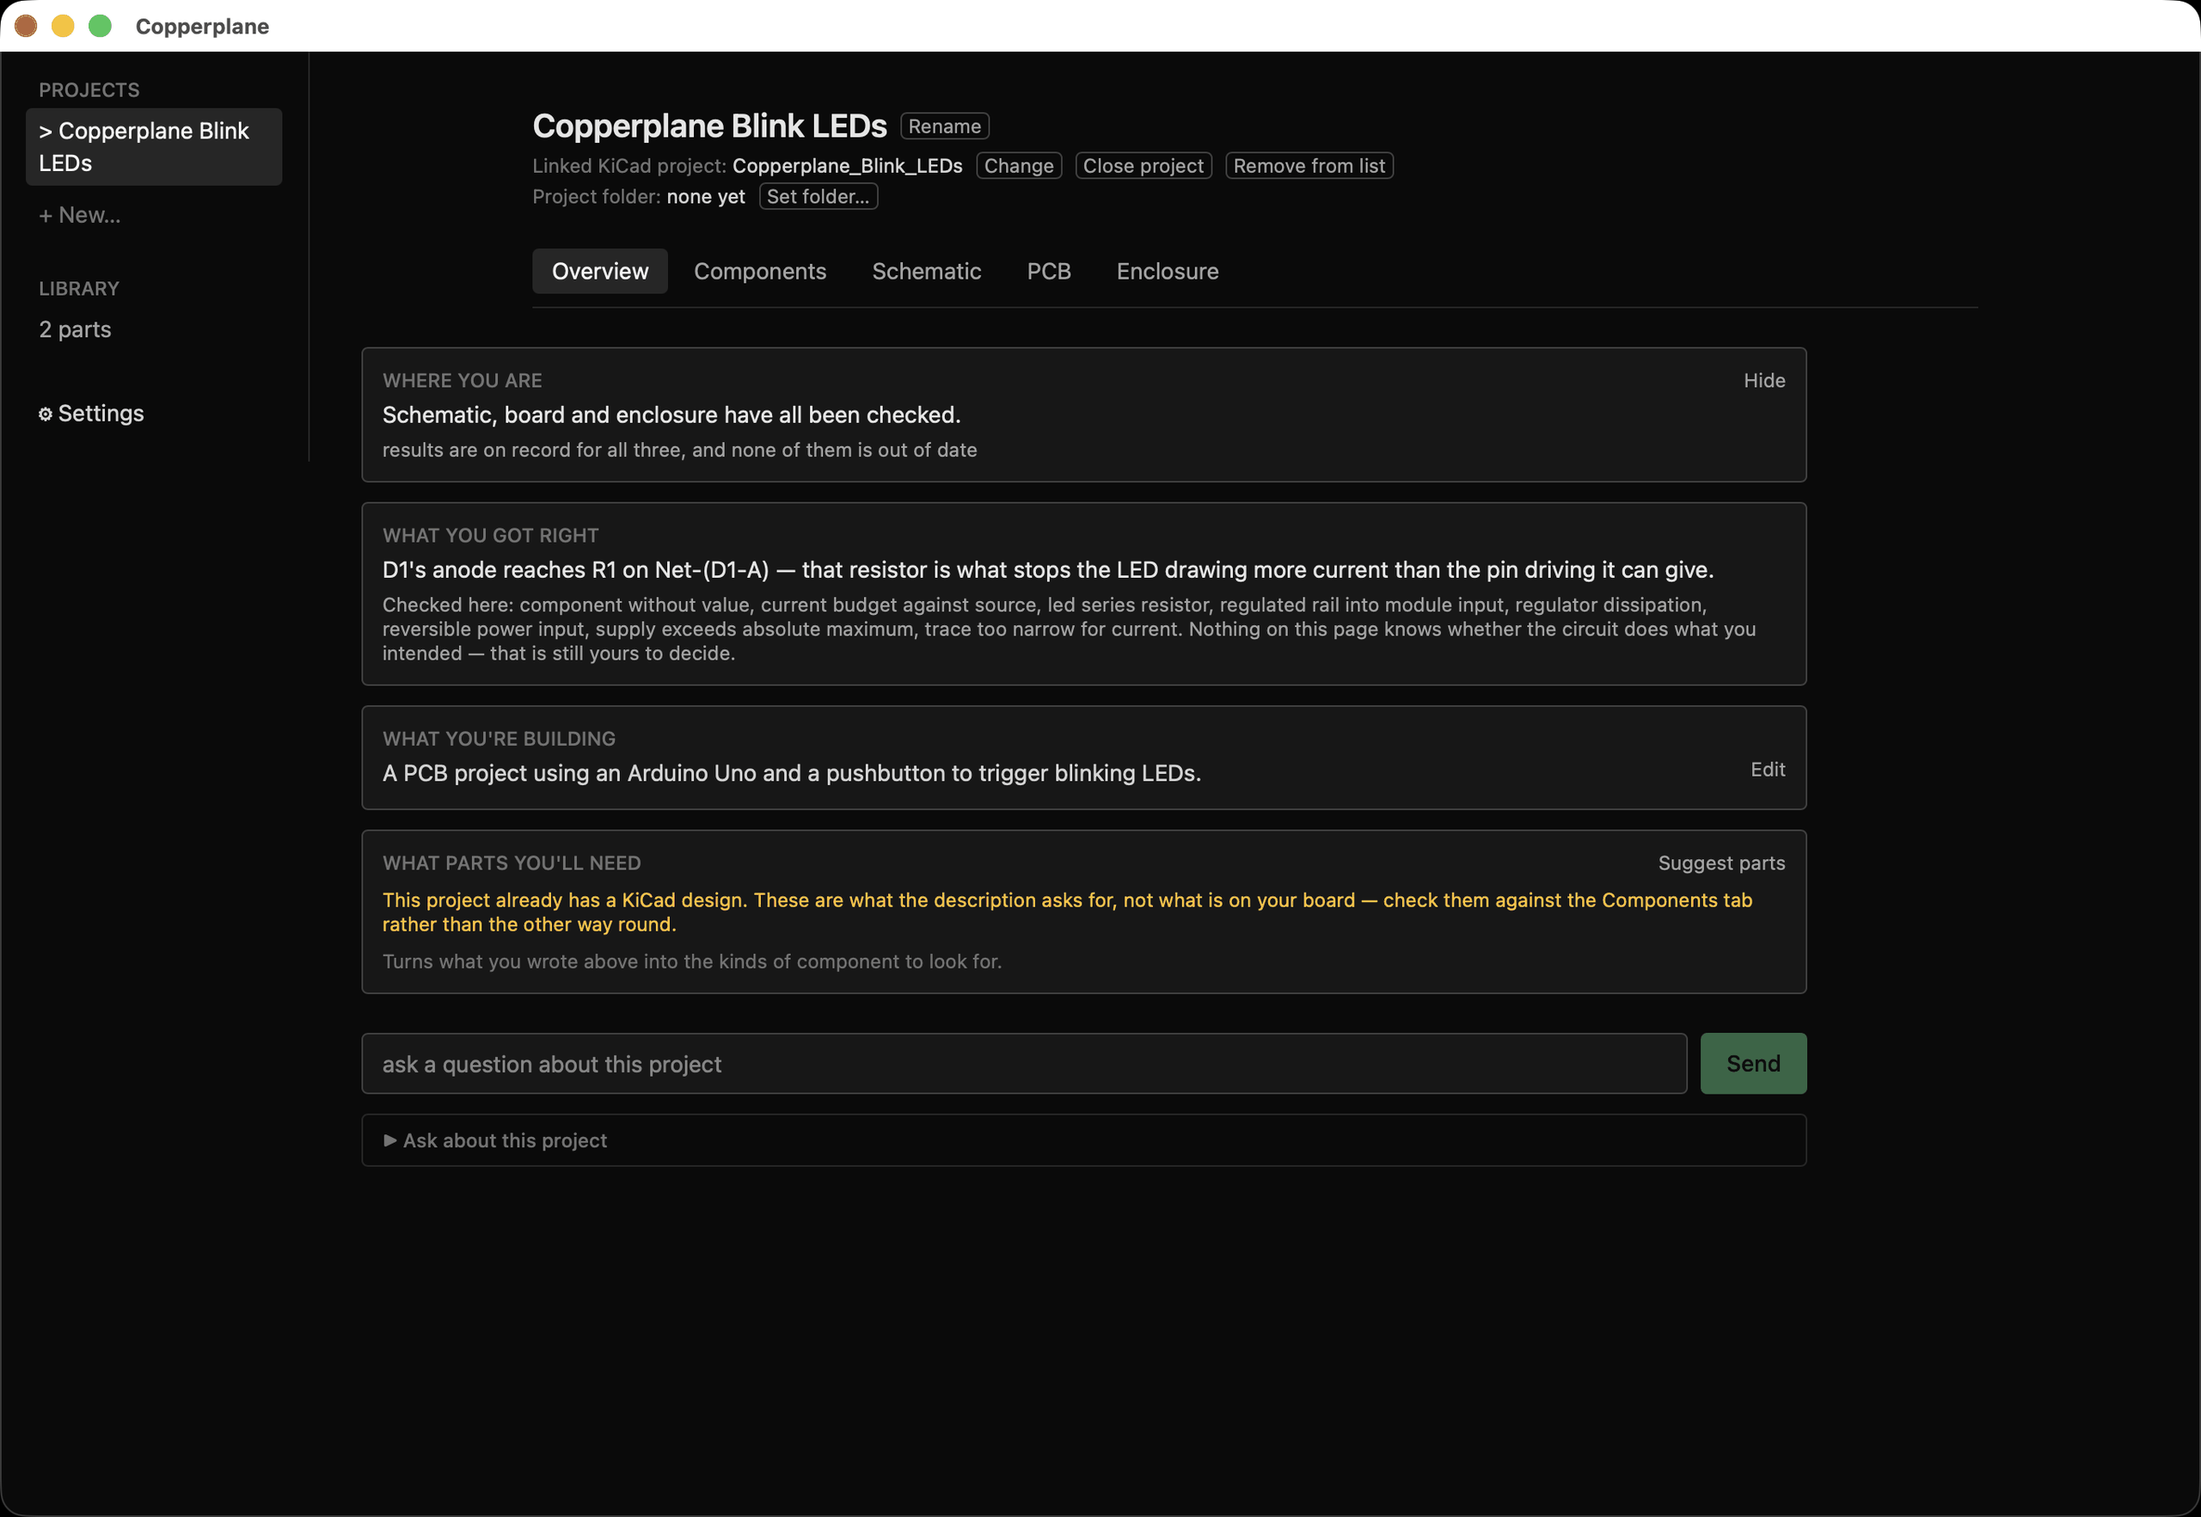
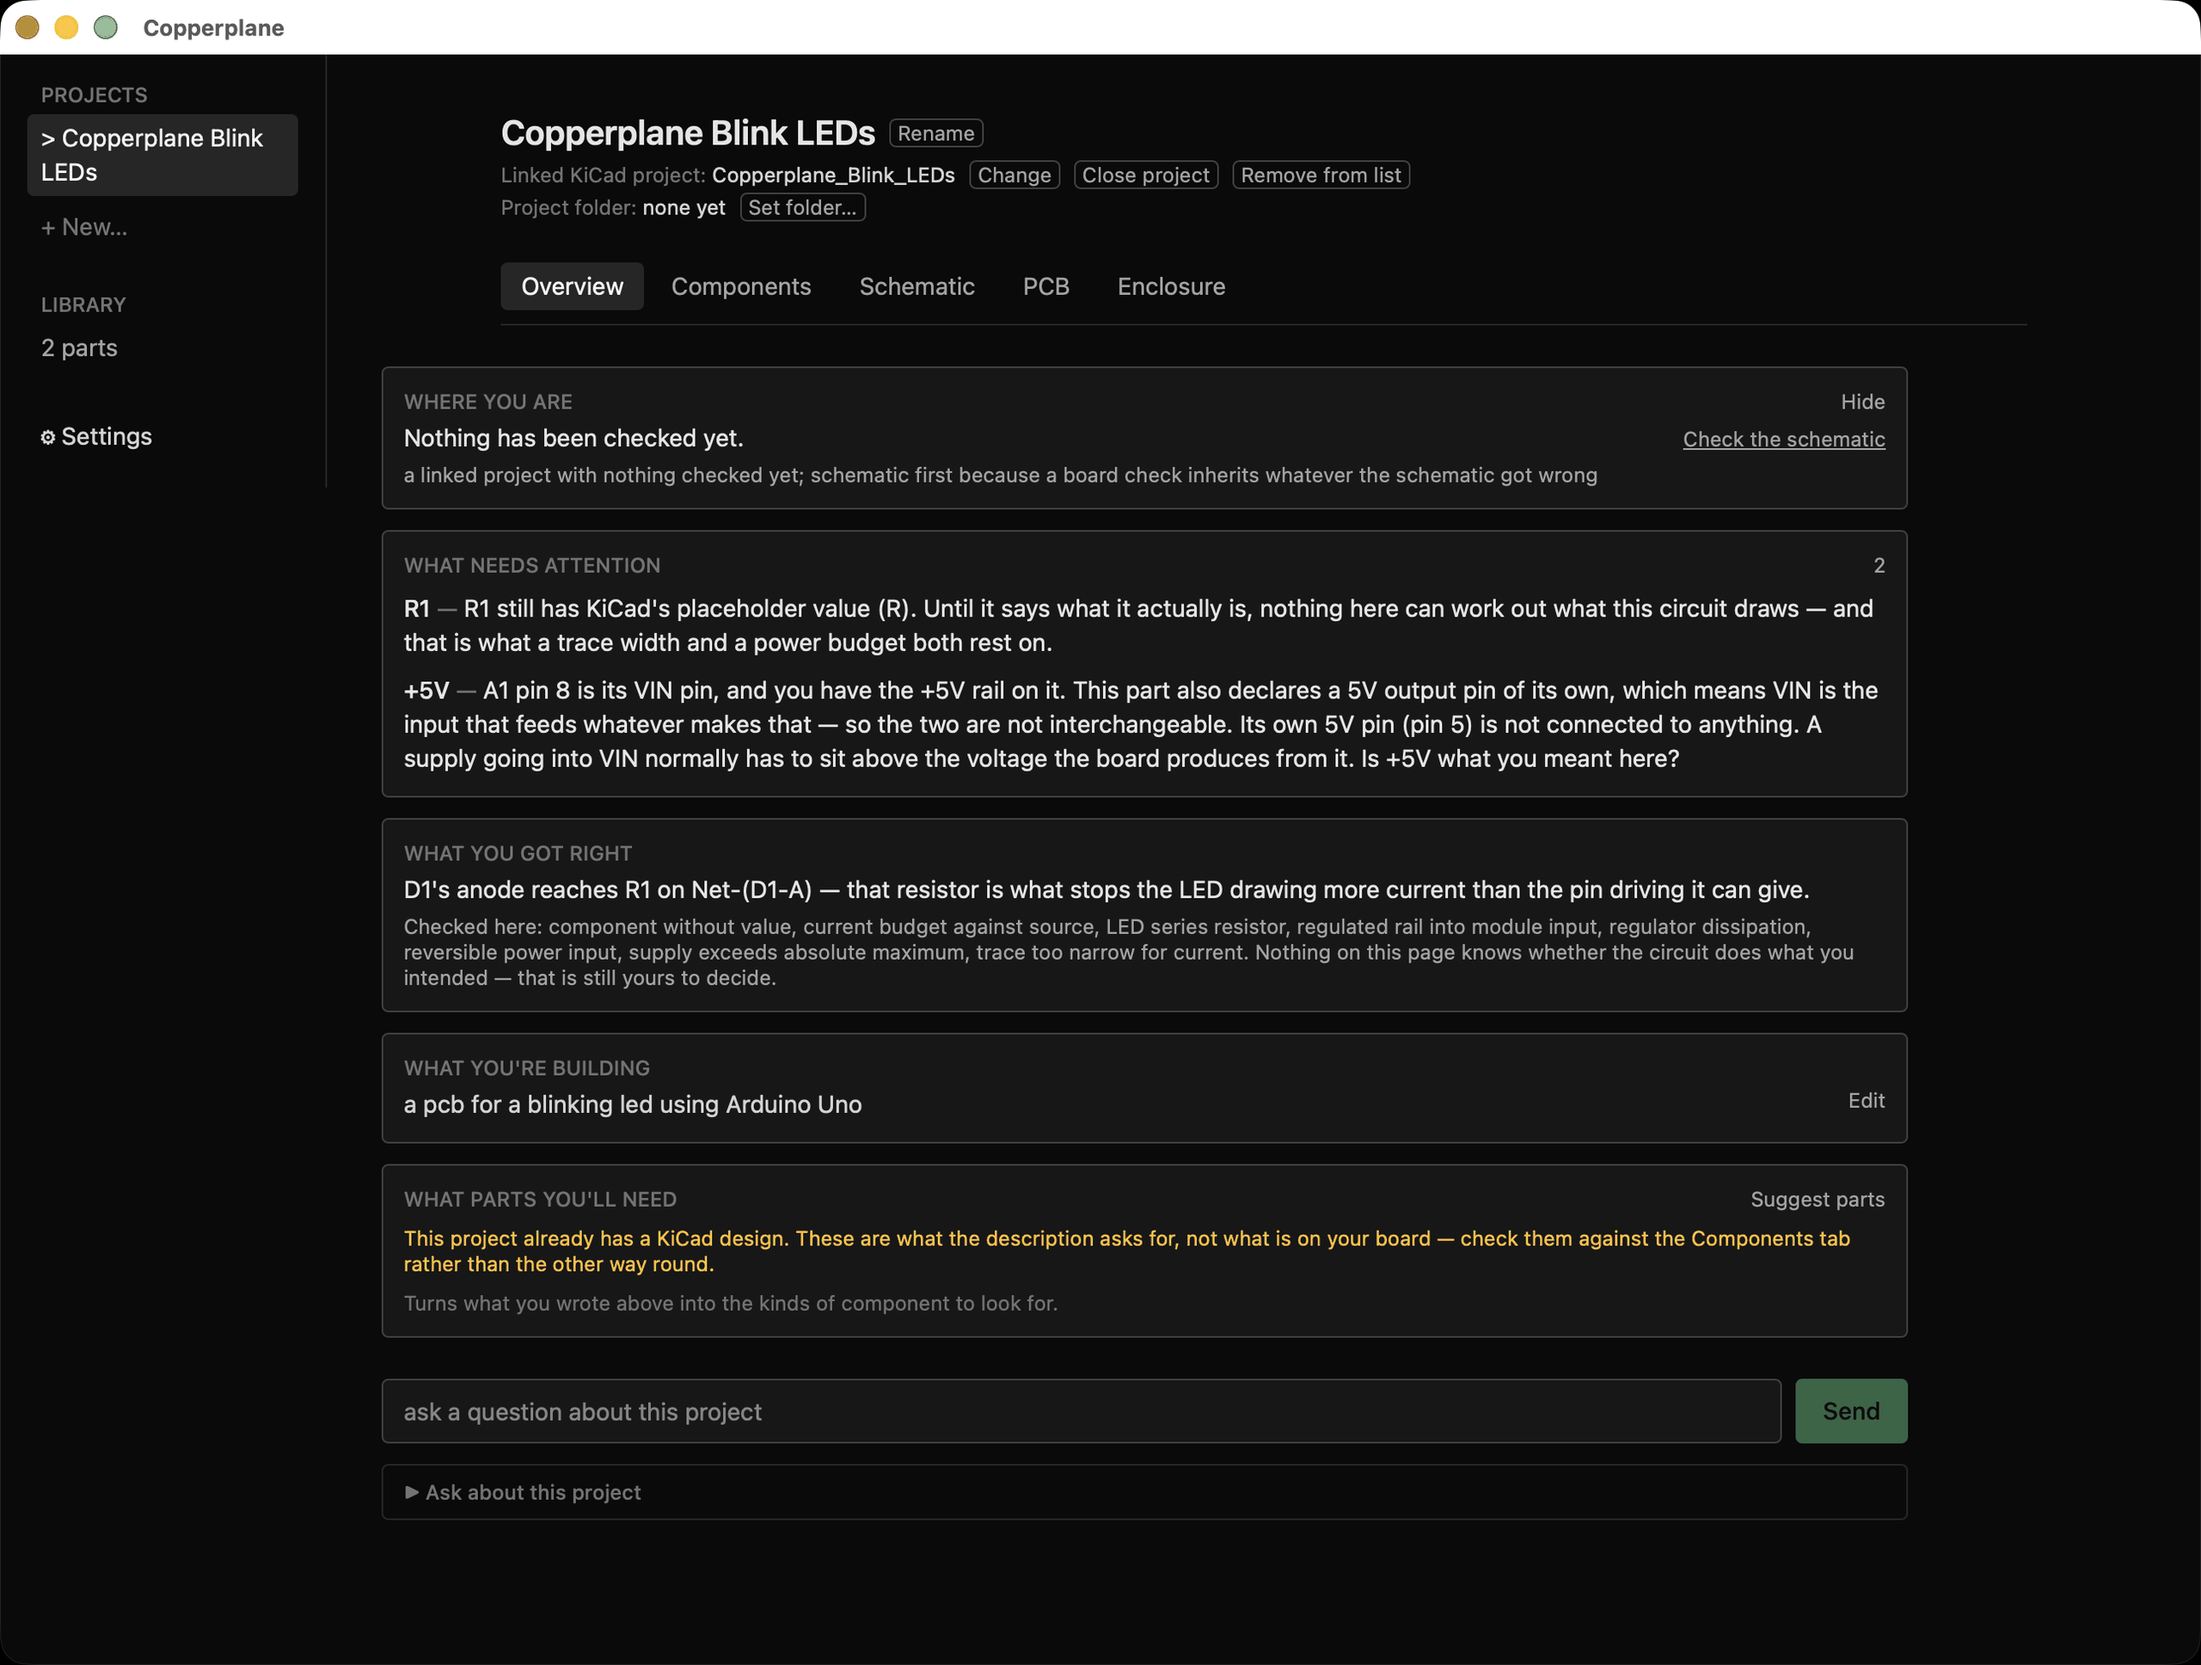
fix(SPEC-343): LED is an acronym, and the hero now shows the app working (#456)
* fix(SPEC-343): LED is an acronym, and the hero now shows the app working

Two things, both found by the maintainer reading a screenshot back rather
than by any test.

The "Checked here" list rendered pack function names with underscores
swapped for spaces, which produced "led series resistor" in a sentence that
capitalises KiCad, VIN and IPC everywhere else. It had already shipped into
a published screenshot.

Fixed with a list of acronyms rather than a table of per-pack display
names, deliberately: SPEC-210's claim is that a new subject area is a data
file and a trigger rather than a rebuild, and a label table would quietly
have made it a rebuild plus a frontend edit. This needs touching only when
a pack introduces an acronym nobody has used yet.

An existing test asserted the lower-cased form -- it pinned the bug, which
is why the suite stayed green while the sentence read wrong on screen and
then in the docs.

The hero swaps from the complete, everything-checked state to Overview
flagging two findings. The homepage's own first card is "Notices what a
rule checker cannot", and a hero showing the calm state argued against the
sentence beside it. Its alt text said "reading a real KiCad project", which
described the old image; it now says what this one shows.

983 frontend tests.

* docs(SPEC-408): the fourth take, and the first clean one

Every string in the frame proofread rather than just the one that changed:
[…]

diff --git a/apps/tauri-ui/src/components/Overview.test.tsx b/apps/tauri-ui/src/components/Overview.test.tsx
@@ -573,7 +573,10 @@ describe('Overview: SPEC-343 what you got right', () => {
     expect(await screen.findByText(/D1's anode reaches R1/)).toBeTruthy()
     // The boundary, beside the reinforcement rather than instead of it.
     expect(screen.getByText(/does what you intended/)).toBeTruthy()
-    expect(screen.getByText(/led series resistor/)).toBeTruthy()
+    // "LED", not "led". This asserted the lower-cased form until 2026-09-12 --
+    // the test pinned the bug, which is why the suite stayed green while the
+    // sentence read wrong on screen and then in a published screenshot.
+    expect(screen.getByText(/LED series resistor/)).toBeTruthy()
   })
 
   it('shows one at a time, and counts the rest', async () => {
@@ -878,5 +881,55 @@ describe('Overview: SPEC-343 §2.6 what needs attention', () => {
     await waitFor(() => screen.getByText(/placeholder value/))
 
     expect(projectConsiderationsMock).toHaveBeenCalledTimes(1)
+  })
+})
+
+describe('Overview: pack names read as prose', () => {
+  /* `checked` arrives as pack function names. Replacing underscores with spaces
+   * produced "led series resistor" in a sentence that capitalises KiCad, VIN and
+   * IPC everywhere else -- and it shipped into a docs screenshot before anybody
+   * read it back. Caught by the maintainer proofreading a retake, not by a test. */
+
+  it('027_keeps an acronym an acronym', async () => {
+    const { humanisePackName } = await import('./Overview')
+    expect(humanisePackName('led_series_resistor')).toBe('LED series resistor')
+  })
+
+  it('028_leaves ordinary words alone', async () => {
+    const { humanisePackName } = await import('./Overview')
+    expect(humanisePackName('component_without_value')).toBe('component without value')
+    expect(humanisePackName('supply_exceeds_absolute_maximum'))
+      .toBe('supply exceeds absolute maximum')
+  })
+
+  it('029_needs no edit for a pack that introduces no new acronym', async () => {
+    /* `SPEC-210`: a new subject area is "a data file and a trigger rather than a
+     * rebuild". A per-pack label table would have made it a rebuild plus a
+     * frontend edit; a list of acronyms does not. */
+    const { humanisePackName } = await import('./Overview')
+    expect(humanisePackName('some_future_pack_nobody_wrote_yet'))
+      .toBe('some future pack nobody wrote yet')
+  })
+
+  it('030_renders the corrected list on the card', async () => {
+    projectStageMock.mockResolvedValue(null)
+    projectConsiderationsMock.mockResolvedValue({
+      needs_attention: [],
+      cleared: [{
+        id: 'led_series_resistor', type: 'copperplane.led_series_resistor',
+        domain: 'power', claim_class: 'computed',
+        trigger: { kind: 'net', ref: 'Net-(D1-A)' },
+        explanation: "D1's anode reaches R1.", state: 'satisfied', source: null,
+      }],
+      checked: ['component_without_value', 'led_series_resistor'],
+      source_path: '/p/x.kicad_sch', reason: null,
+    })
+    render(
+      <Overview projectName="weather-pcb"
+                project={{ name: 'weather-pcb', intent: 'a logger' } as never} active />,
+    )
+
+    await waitFor(() => screen.getByText(/LED series resistor/))
+    expect(screen.queryByText(/led series resistor/)).toBeNull()
   })
 })

diff --git a/apps/tauri-ui/src/components/Overview.tsx b/apps/tauri-ui/src/components/Overview.tsx
@@ -559,6 +559,29 @@ function WhatNeedsAttention({ result }: { result: ConsiderationsResult | null })
   )
 }
 
+/** Acronyms that must not be lower-cased when a pack's name becomes prose.
+ *
+ *  `checked` arrives as the pack function names -- `led_series_resistor` -- and
+ *  turning underscores into spaces gets most of the way. It also produced
+ *  **"led series resistor"** in the middle of a sentence that capitalises KiCad,
+ *  VIN and IPC everywhere else, which shipped into a docs screenshot before
+ *  anybody read it back.
+ *
+ *  A list of acronyms rather than a map of display names, deliberately.
+ *  `SPEC-210`'s claim is that a new subject area is *"a data file and a trigger
+ *  rather than a rebuild"* -- a per-pack label table would quietly make it a
+ *  rebuild plus a frontend edit. This only needs touching when a pack
+ *  introduces an acronym nobody has used yet.
+ */
+const ACRONYMS = ['LED', 'PCB', 'ERC', 'DRC', 'USB', 'IPC', 'KiCad', '3D']
+
+export function humanisePackName(name: string): string {
+  return name.split('_').map((word) => {
+    const hit = ACRONYMS.find((a) => a.toLowerCase() === word.toLowerCase())
+    return hit ?? word
+  }).join(' ')
+}
+
 function WhatYouGotRight({ result }: { result: ConsiderationsResult | null }) {
   const first = result?.cleared?.[0]
   if (!result || !first) return null
@@ -577,7 +600,7 @@ function WhatYouGotRight({ result }: { result: ConsiderationsResult | null }) {
           reinforcement rather than instead of it. The list is what actually
           ran, so it cannot drift out of date as packs are added. */}
       <p className="text-xs text-fg-tertiary">
-        Checked here: {result.checked.join(', ').replace(/_/g, ' ')}. Nothing on this page knows
+        Checked here: {result.checked.map(humanisePackName).join(', ')}. Nothing on this page knows
         whether the circuit does what you intended — that is still yours to decide.
       </p>
     </div>

diff --git a/apps/tauri-ui/context/CTX-343.4-what-needs-attention.md b/apps/tauri-ui/context/CTX-343.4-what-needs-attention.md
@@ -114,3 +114,31 @@ others.
     second ending in its question. That capture is now the illustration for
     `guides/what-it-notices.md` — the page that described this surface for a day before it
     existed.
+
+
+---
+
+## 5. Follow-up, 2026-09-12: a test was holding a defect in place
+
+Found by the maintainer proofreading a screenshot retake, after this context had closed.
+
+The **"Checked here"** list rendered pack function names by swapping underscores for spaces, which
+produced *"led series resistor"* in a sentence that capitalises `KiCad`, `VIN` and `IPC` everywhere
+else. The line dates from `CTX-343.2`, not from this context — it moved here untouched when the two
+cards were split, which is how a two-week-old string reached a published screenshot without anyone
+reading it.
+
+**No test caught it because a test was asserting it.** `006_shows one cleared item and what was not
+checked` checked for `/led series resistor/` — the lower-cased form. The suite was green *because*
+the bug was there, and correcting the code turned that test red, which is the only reason it
+surfaced at all rather than silently passing.
+
+That is a sharper version of `CLAUDE.md`'s *"a check that cannot fail is not evidence"*: a check that
+asserts the wrong answer is worse than no check, because it actively defends the mistake.
+
+**The fix is a list of acronyms rather than a table of display names**, and the distinction is not
+cosmetic. `SPEC-210`'s claim is that adding a subject area is *"a data file and a trigger rather than
+a rebuild"*. A per-pack label table would have made every new pack a rebuild **plus** a frontend
+edit — quietly converting the property the whole family is built on into a maintenance cost. A list
+of acronyms only needs touching when a pack introduces one nobody has used yet, which
+`030_needs no edit for a pack that introduces no new acronym` pins.

diff --git a/docs/site/SCREENSHOTS.md b/docs/site/SCREENSHOTS.md
@@ -53,9 +53,28 @@ written already overstates what ships.
 
 ### The hero
 
-Retaken 2026-09-12 at 00:29, showing Overview at the `complete` state — a reading that was
-unreachable until `CTX-343.3` fixed the card going stale, and whose evidence line was a word-for-word
-copy of its own heading until the same branch fixed that. Both are right in this capture.
+**Swapped 2026-09-12** to Overview flagging two findings, from the `complete`
+state it showed before. The homepage's own first card is *"Notices what a rule
+checker cannot"* — a hero showing the calm, everything-checked state argued
+against the sentence beside it.
+
+`what-needs-attention.png` is the same capture, deliberately duplicated rather
+than shared. A hero and a guide illustration should be independently
+replaceable; pointing both at one file means changing the homepage silently
+changes the guide.
+
+> **One capture, four takes, and each take found the next defect.**
+>
+> 1. The app's own evidence line duplicated its heading, word for word.
+> 2. Fixed — and the project description read *"ardurino"*.
+> 3. Fixed — and reading it back found *"led series resistor"* lower-cased in
+>    the app's own copy. No test caught it because a test was **asserting** the
+>    lower-cased form.
+> 4. Clean.
+>
+> Three of those were in text nobody had read since writing it, and one was
+> being actively held in place by its own test. **Read the whole frame back
+> before placing it** — not the part you changed, the whole frame.
 
 ## The pipeline the raw captures need
 
